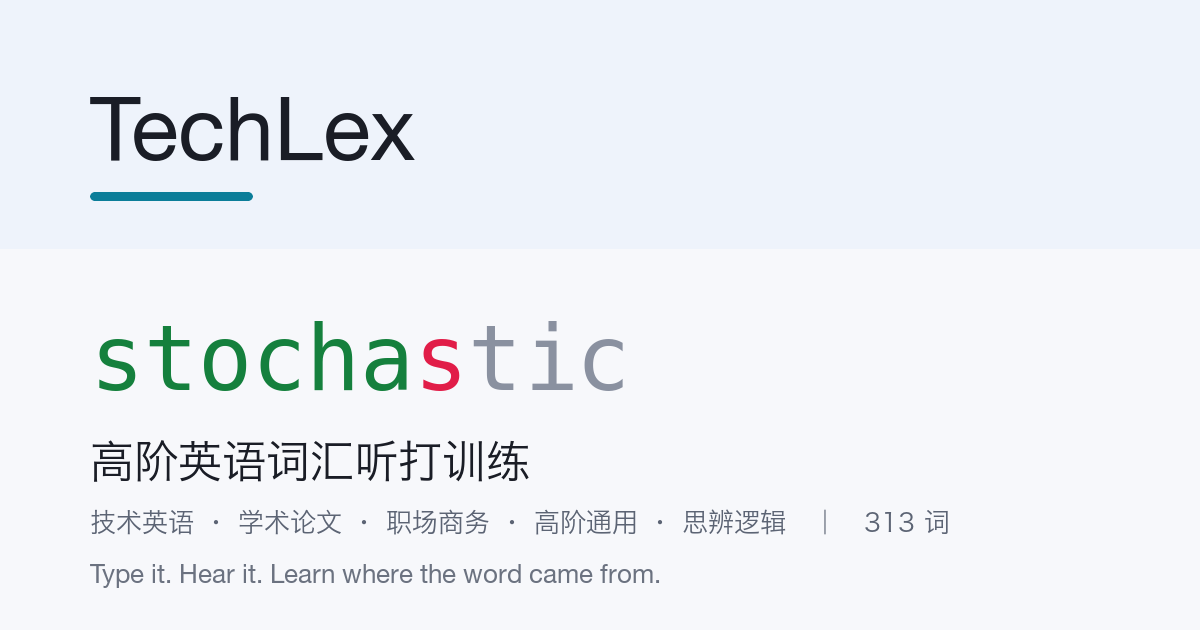
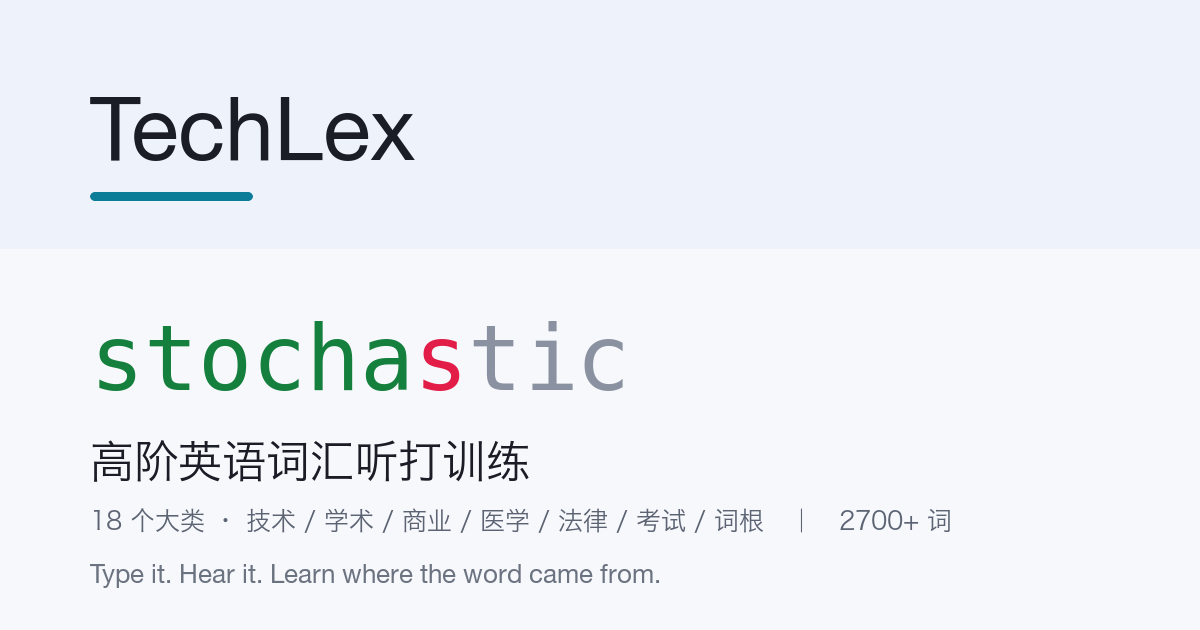
更新 meta 描述、封面图与词数回填规则（313 → 2727）

Changed region(s): [[0.0617, 0.7841, 0.8017, 0.8444]]

diff --git a/index.html b/index.html
@@ -18,14 +18,14 @@
 <meta property="og:locale:alternate" content="en_US">
 <meta property="og:url" content="https://yuki4266.github.io/techlex/">
 <meta property="og:title" content="TechLex · 技术英语词汇听打训练">
-<meta property="og:description" content="313 个高阶英语词汇：技术英语 · 学术论文 · 职场商务 · 高阶通用词 · 思辨逻辑。自动发音（英音·美音）、逐字母实时校对、词源典故中英对照、错题回顾。免费，打开即用。">
+<meta property="og:description" content="2727 个高阶英语词汇：技术英语 · 学术论文 · 职场商务 · 高阶通用词 · 思辨逻辑。自动发音（英音·美音）、逐字母实时校对、词源典故中英对照、错题回顾。免费，打开即用。">
 <meta property="og:image" content="https://yuki4266.github.io/techlex/og-image.png">
 <meta property="og:image:width" content="1200">
 <meta property="og:image:height" content="630">
 <meta property="og:image:alt" content="TechLex 技术英语词汇听打训练">
 <meta name="twitter:card" content="summary_large_image">
 <meta name="twitter:title" content="TechLex · 技术英语词汇听打训练">
-<meta name="twitter:description" content="313 个高阶英语词汇：技术、学术、职场、通用高阶与思辨逻辑。自动发音、逐字母校对、词源典故中英对照。">
+<meta name="twitter:description" content="2727 个高阶英语词汇：技术、学术、职场、通用高阶与思辨逻辑。自动发音、逐字母校对、词源典故中英对照。">
 <meta name="twitter:image" content="https://yuki4266.github.io/techlex/og-image.png">
 
 <link rel="icon" href="favicon.svg" type="image/svg+xml">

diff --git a/about.html b/about.html
@@ -14,7 +14,7 @@
 <meta property="og:locale" content="zh_CN">
 <meta property="og:url" content="https://yuki4266.github.io/techlex/about.html">
 <meta property="og:title" content="关于 TechLex · 技术英语词汇听打训练">
-<meta property="og:description" content="313 个技术英语专业词汇：自动发音、逐字母实时校对、词源典故中英对照、错题回顾。免费，打开即用。">
+<meta property="og:description" content="2727 个技术英语专业词汇：自动发音、逐字母实时校对、词源典故中英对照、错题回顾。免费，打开即用。">
 <meta property="og:image" content="https://yuki4266.github.io/techlex/og-image.png">
 <meta name="twitter:card" content="summary_large_image">
 <meta name="twitter:image" content="https://yuki4266.github.io/techlex/og-image.png">
